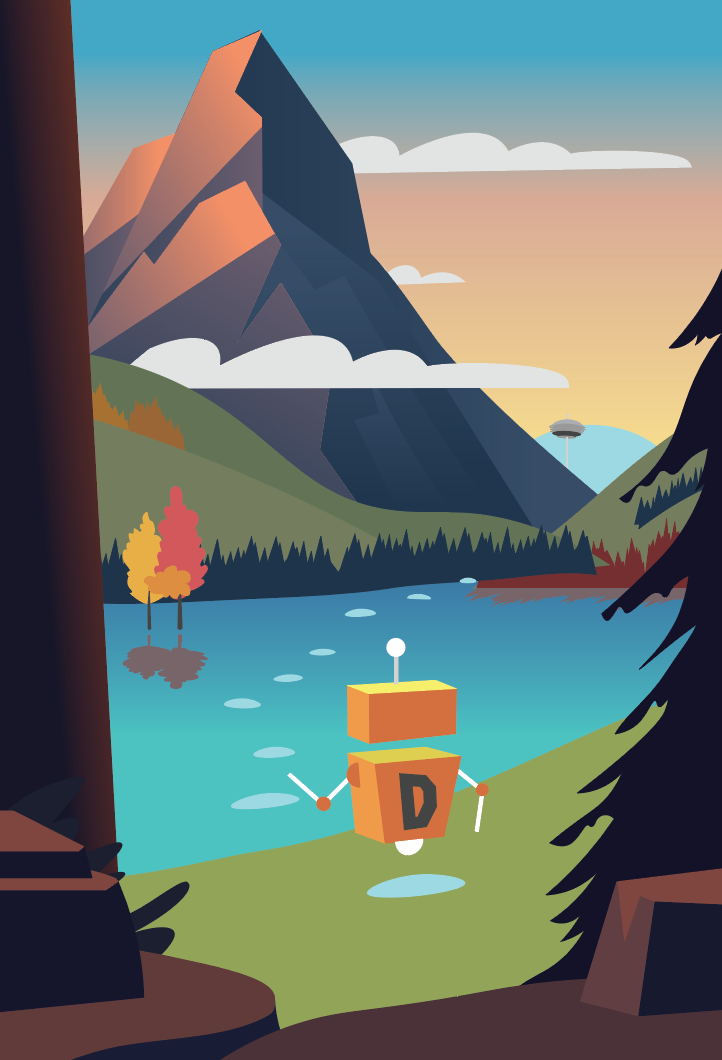
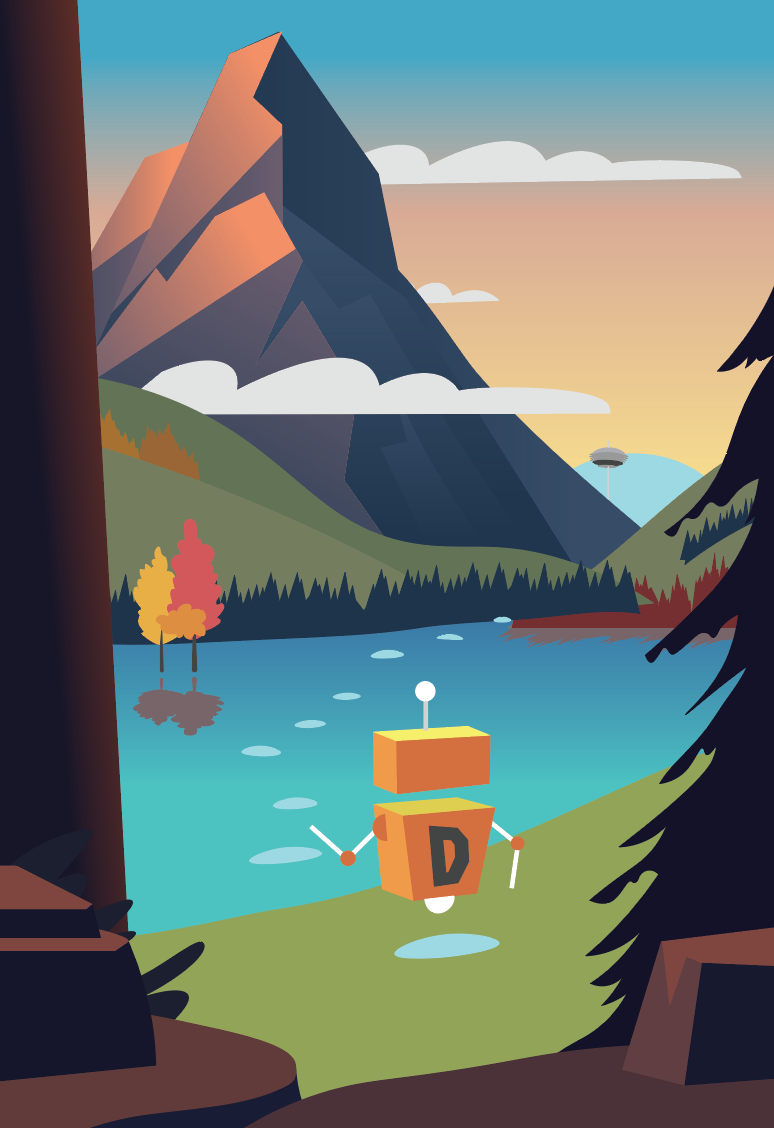
added technigala process draft

diff --git a/projects/technigala.html b/projects/technigala.html
@@ -35,7 +35,8 @@
 
 		<h2>Initial Sketches</h2>
 		<div class="proj_img">
-		<img src="../assets/technigaladraft.jpeg" style= "width: 80%">
+		<img src="../assets/technigaladraft.jpeg" style= "width: 40%">
+		<img src="../assets/technigaladraft2.png" style= "width: 40%">
 		</div>
 
 		 
